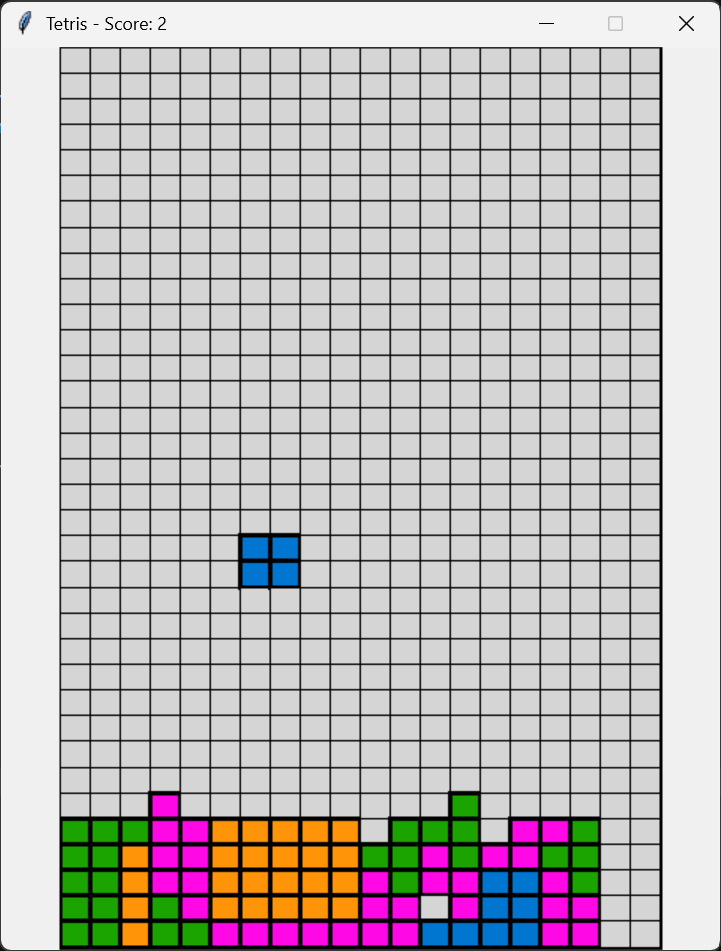
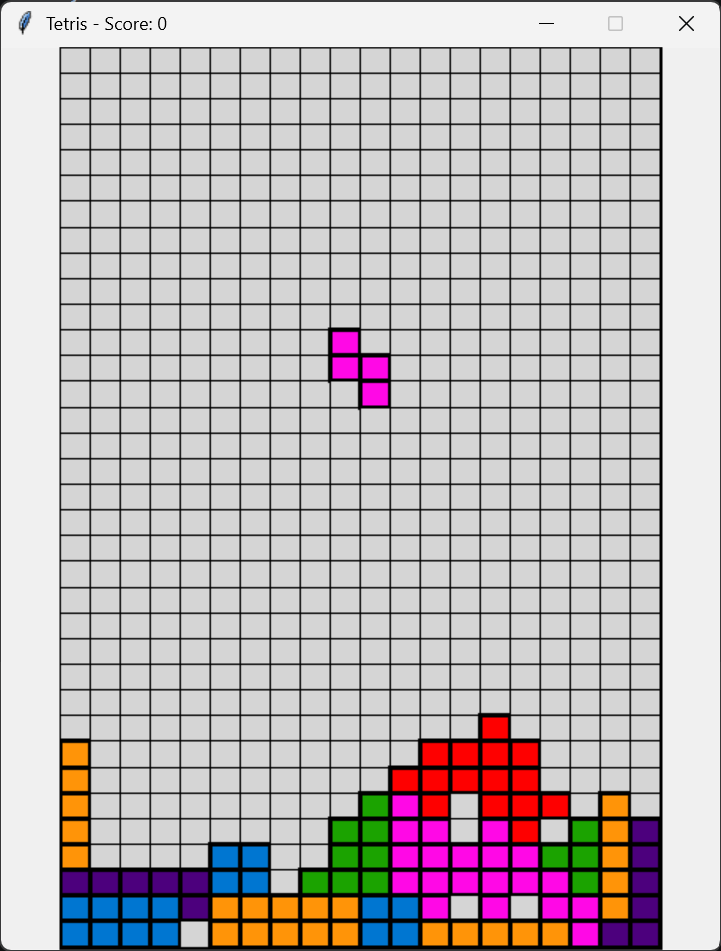
Add forgotten X-shape and new screenshot

diff --git a/shapes.py b/shapes.py
@@ -39,5 +39,13 @@ ray_shape= [
     [constants.VOID_COLOR, constants.RAY_COLOR]
 ]
 
+# X-Shaped tetromino.
+x_shape= [
+    [constants.VOID_COLOR, constants.X_COLOR, constants.VOID_COLOR],
+    [constants.X_COLOR, constants.X_COLOR, constants.X_COLOR],
+    [constants.VOID_COLOR, constants.X_COLOR, constants.VOID_COLOR]
+]
+
+
 # Represents the absence of an active piece.
 void_shape= [constants.VOID_COLOR]

diff --git a/game.py b/game.py
@@ -100,7 +100,8 @@ def new_shape():
         shapes.t_shape,
         shapes.square_shape,
         shapes.i_shape,
-        shapes.ray_shape
+        shapes.ray_shape,
+        shapes.x_shape
     ])
 
     current_shape = np.rot90(shape, random.randint(0, 3))

diff --git a/constants.py b/constants.py
@@ -25,6 +25,7 @@ T_COLOR = "#1ba300"
 SQUARE_COLOR = "#0076d1"
 I_COLOR = "#ff9408"
 RAY_COLOR = "#ff08e6"
+X_COLOR = "#fe0000"
 
 # Empty cell color.
 VOID_COLOR = "#d5d5d5"
